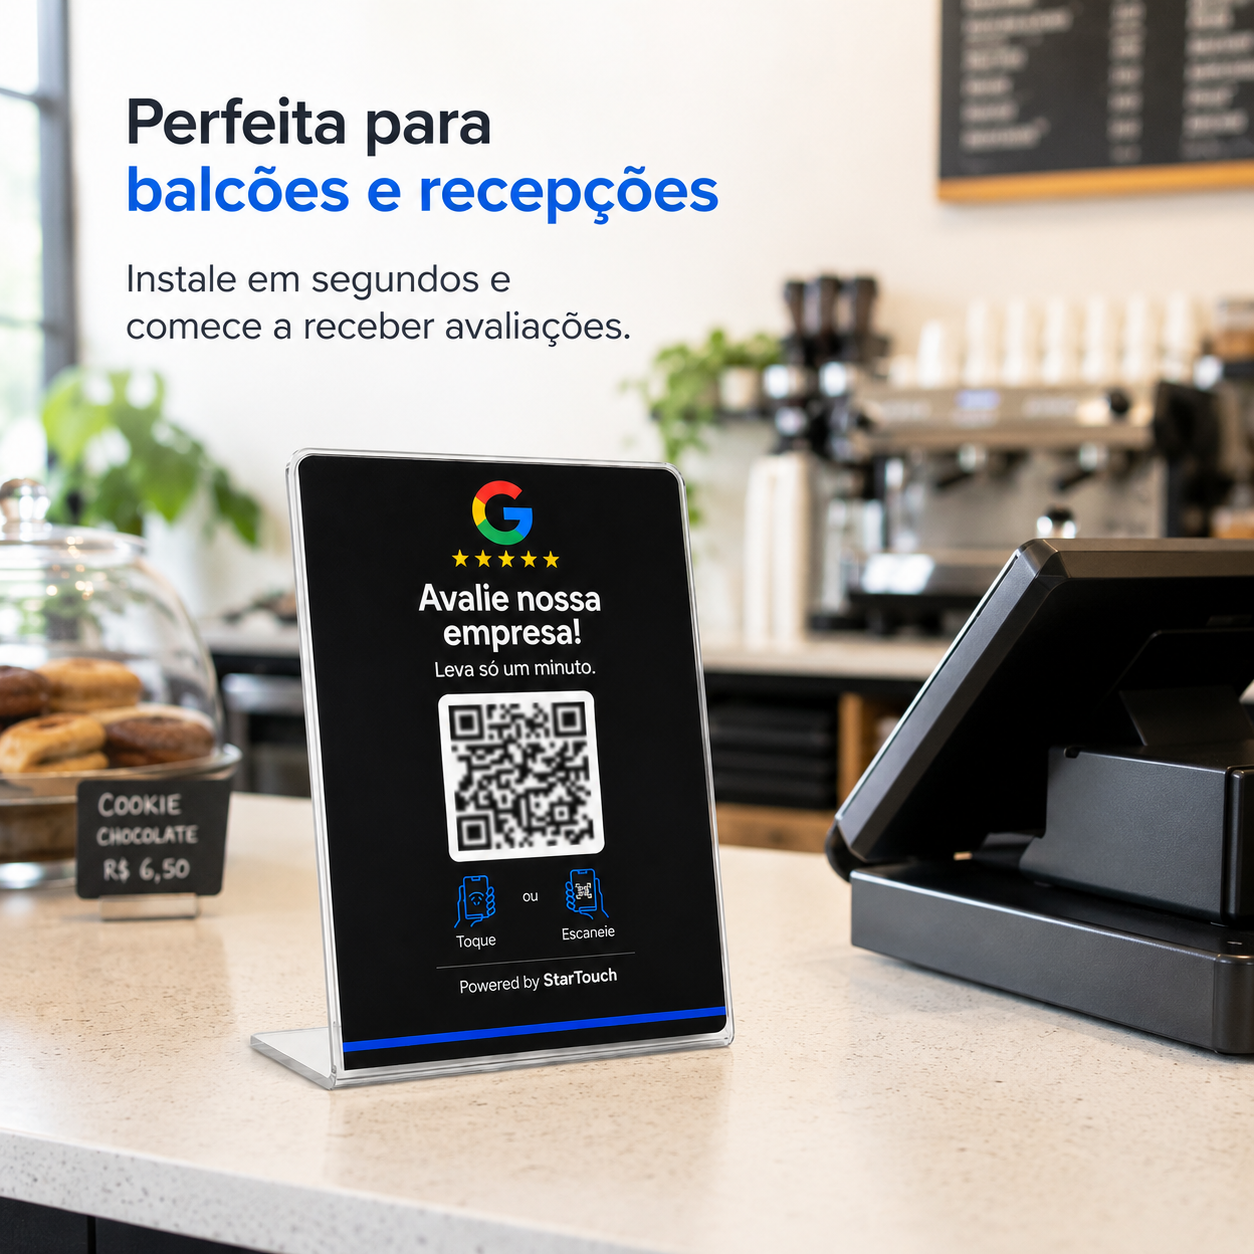
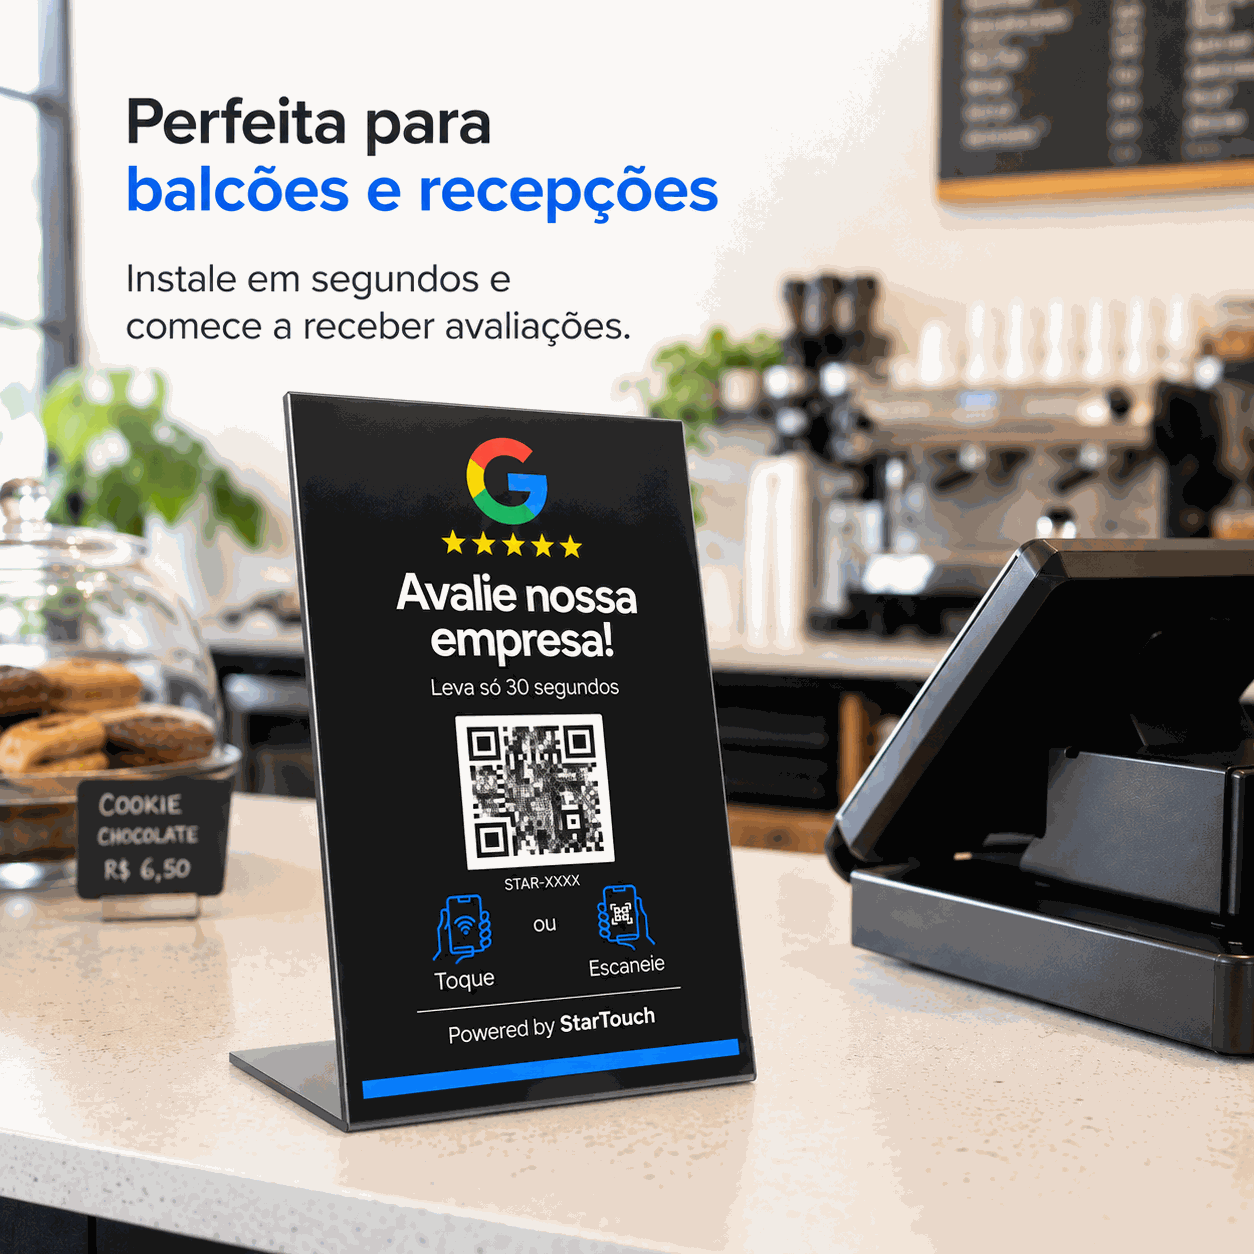
feat(produto): foto de ambiente da Placa G em PS preto
Substitui placa-g-3.png — a foto "no balcao", que era a placa de ACRILICO num
cafe. A nova mostra o produto em PS preto no balcao, ao lado da maquininha.

1.808 KB -> 225 KB. Quantizei em 256 cores e nao em 128 como as outras: foto
de ambiente tem gradiente de luz e madeira, e 128 criaria faixas visiveis no
fundo. Com o fundo desfocado, 256 nao deixa rastro.

O ALT CARREGA O TEXTO DA IMAGEM. A foto traz uma chamada impressa nela
("Perfeita para balcoes e recepcoes — instale em segundos e comece a receber
avaliacoes"), e imagem de texto sem alt equivalente e conteudo que simplesmente
nao existe pra quem usa leitor de tela — e pro Google tambem.

Faltam quatro fotos de contexto em acrilico: placa-g-4 (celular se aproximando),
placa-g-5 (antes e depois), placa-m-3 (recepcao) e placa-m-4 (avaliando).

Claude-Session: https://claude.ai/code/session_01S5eKpJUpAx1ZzX8rzRNBTg

diff --git a/public/landing.html b/public/landing.html
@@ -4577,7 +4577,7 @@
           <div class="eco-gallery-thumbs">
             <button class="eco-gallery-thumb is-active" type="button" data-full="/gadget-placa.png" aria-label="Ver foto 1 — produto"><img src="/gadget-placa.png" alt="Placa de Balcão G — produto" loading="lazy"/></button>
             <button class="eco-gallery-thumb" type="button" data-full="/placa-g-2.png" aria-label="Ver foto 2 — de frente"><img src="/placa-g-2.png" alt="Placa de Balcão G vista de frente — PS preto 2 mm" loading="lazy"/></button>
-            <button class="eco-gallery-thumb" type="button" data-full="/placa-g-3.png" aria-label="Ver foto 3 — no balcão"><img src="/placa-g-3.png" alt="Placa de Balcão G no balcão de um café" loading="lazy"/></button>
+            <button class="eco-gallery-thumb" type="button" data-full="/placa-g-3.png" aria-label="Ver foto 3 — no balcão de um café"><img src="/placa-g-3.png" alt="Placa de Balcão G no balcão de um café, ao lado da maquininha: &quot;Perfeita para balcões e recepções — instale em segundos e comece a receber avaliações&quot;" loading="lazy"/></button>
             <button class="eco-gallery-thumb" type="button" data-full="/placa-g-4.png" aria-label="Ver foto 4 — aproximando o celular"><img src="/placa-g-4.png" alt="Cliente aproximando o celular da Placa de Balcão G" loading="lazy"/></button>
             <button class="eco-gallery-thumb" type="button" data-full="/placa-g-5.png" aria-label="Ver foto 5 — antes e depois"><img src="/placa-g-5.png" alt="Antes e depois: mais avaliações no Google com a Placa G" loading="lazy"/></button>
           </div>
